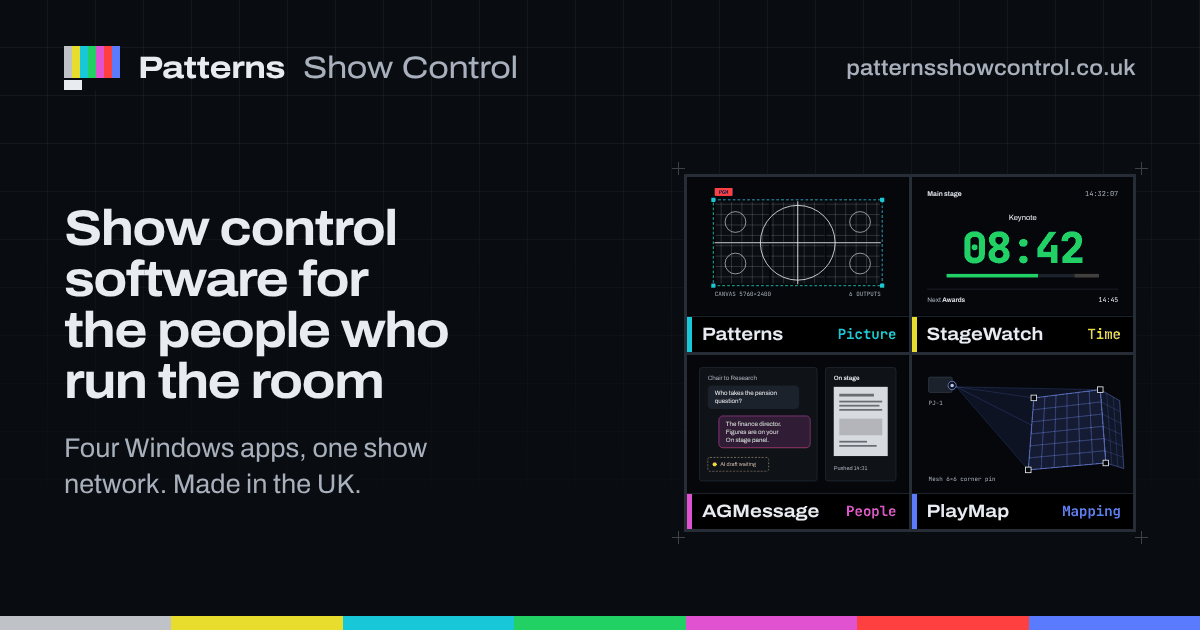
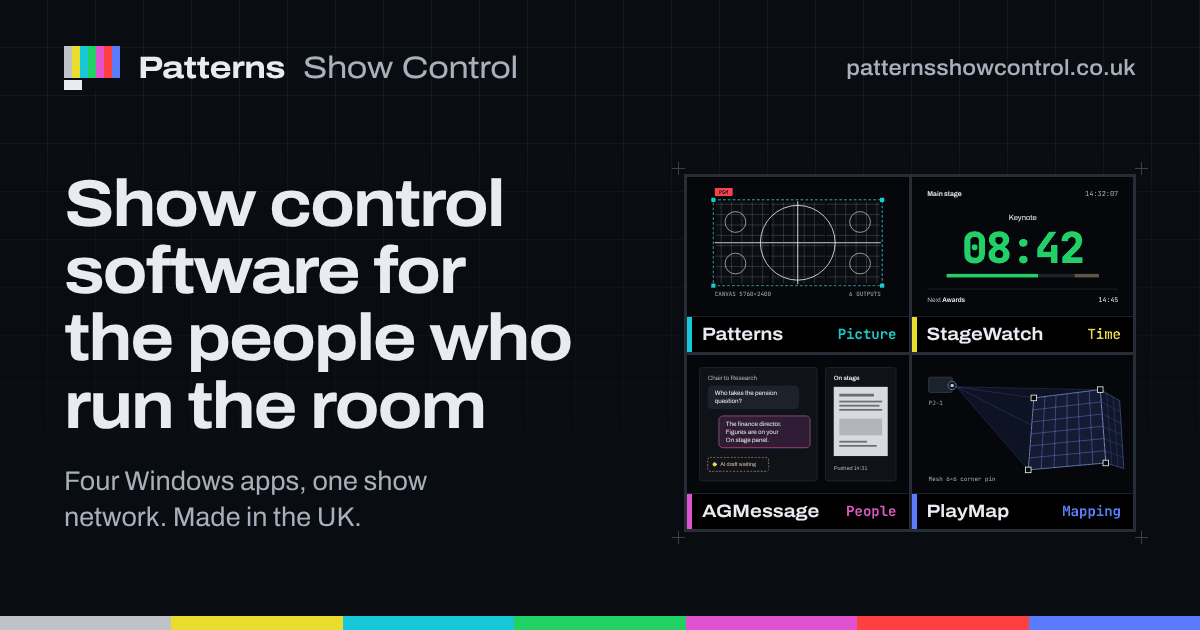
Share cards and portal styling: the assets review's last edits
The home share card allows four headline lines so it renders larger, the build
warns when a headline cannot fit, forced-colours mode draws no box round the
portal's text-link buttons, and DESIGN.md records both.

Claude-Session: https://claude.ai/code/session_01PvjxSCpe9yUxKRM2mFBvTx

Changed region(s): [[0.0308, 0.2714, 0.4933, 0.7238], [0.0617, 0.754, 0.37, 0.8444], [0.8942, 0.4222, 0.925, 0.4524]]

diff --git a/public/assets/css/site.css b/public/assets/css/site.css
@@ -1341,6 +1341,7 @@
     .c-seg :is(input:checked + span, button[aria-pressed="true"]), .c-theme button[aria-pressed="true"], .c-radio-card input:checked + span,
     .c-vote[aria-pressed="true"], .pt-vote[aria-pressed="true"], .c-tabs > [aria-current], .c-tabs > [aria-selected="true"], .pt-tabs > [aria-current], .c-pager [aria-current="page"], .pt-pager [aria-current="page"] { outline: 2px solid Highlight; outline-offset: -2px; }
     .c-btn, .pt-btn, .c-chat-fab, .c-chat-send, .c-go, .c-take { border: 1px solid ButtonText; }
+    :is(.pt-actions > a.pt-btn--ghost, .pt-card-footer > a.pt-btn--ghost:only-child) { border-color: transparent; }
     .c-tier.is-rec, .c-compare-table .is-rec { outline: 2px solid Highlight; outline-offset: -2px; }
     input:is([type="checkbox"], [type="radio"]) { appearance: auto; }
     .c-cue[data-state="standby"], .c-flow-gate { outline: 2px dashed Highlight; }

diff --git a/docs/DESIGN.md b/docs/DESIGN.md
@@ -1016,7 +1016,8 @@ followspot in its colour; PlayMap's card says "Early access".
 | `stagewatch-licensing` | StageWatch pricing | Standard, Pro and Production from `content/licensing/stagewatch.php`, as the pricing page shows them: Pro's badge, and a launch price as the figure with the list price struck through under an outlined "Launch price" flag |
 | `licensing`, `workflows`, `downloads`, `support`, `contact`, `about` | the hubs and pages of those names | a licence sheet; the six workflows as a cue list, each with its apps' swatches and a legend naming them; what the downloads hold; the assistant; the contact topics; the four habits the apps share (about's principles, so the card adds to its headline rather than repeating it) |
 
-Headlines are 66px (80px for one-word titles), stepping down to 50px to fit three lines; hyphenated words never
+Headlines are 66px (80px for one-word titles), stepping down to 50px to fit three lines (four for the home card's
+long headline, so it stays large beside the multiview); hyphenated words never
 break, and the build warns when a headline needs a fourth line (shorten it: Support's card uses its H1, "Support",
 with the page's description as the line, rather than its 55-character title). Text is sized to stay legible at a 400px thumbnail. Words and prices come from `content/`; the build fails if
 `content/pages.php` names an `og` image with no card. Cards are palette PNGs when that is visually identical, and stay
